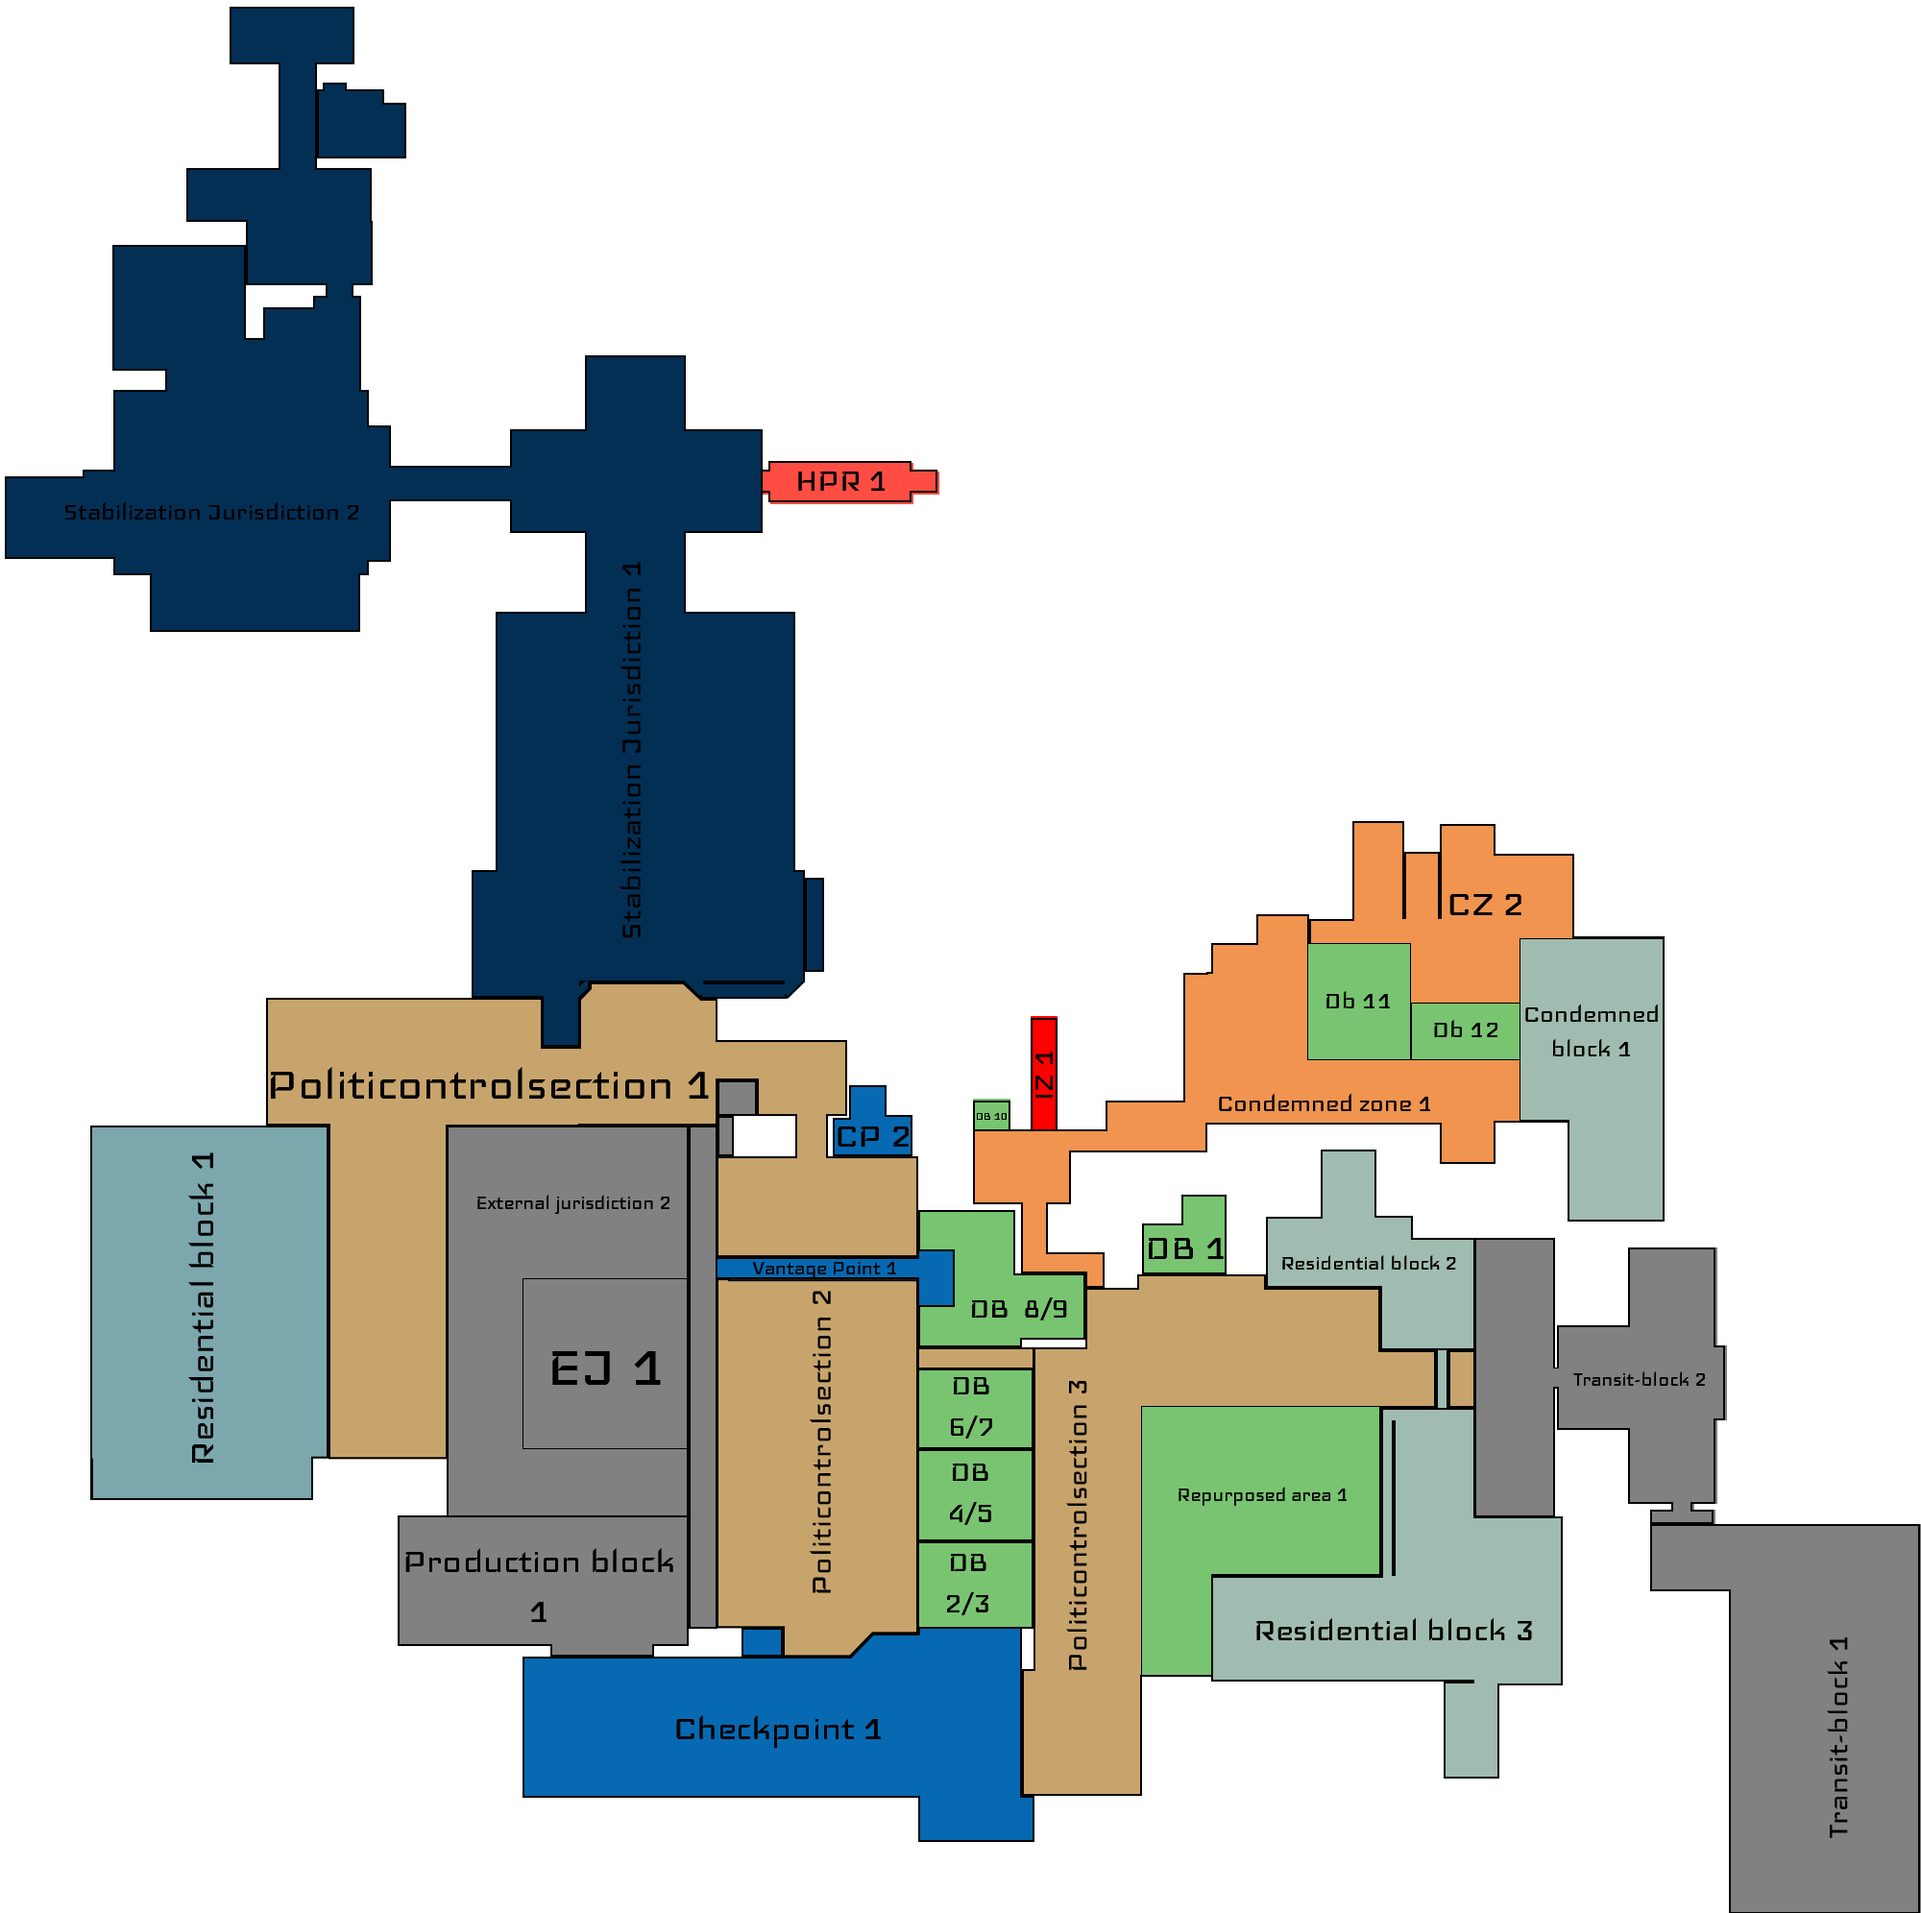
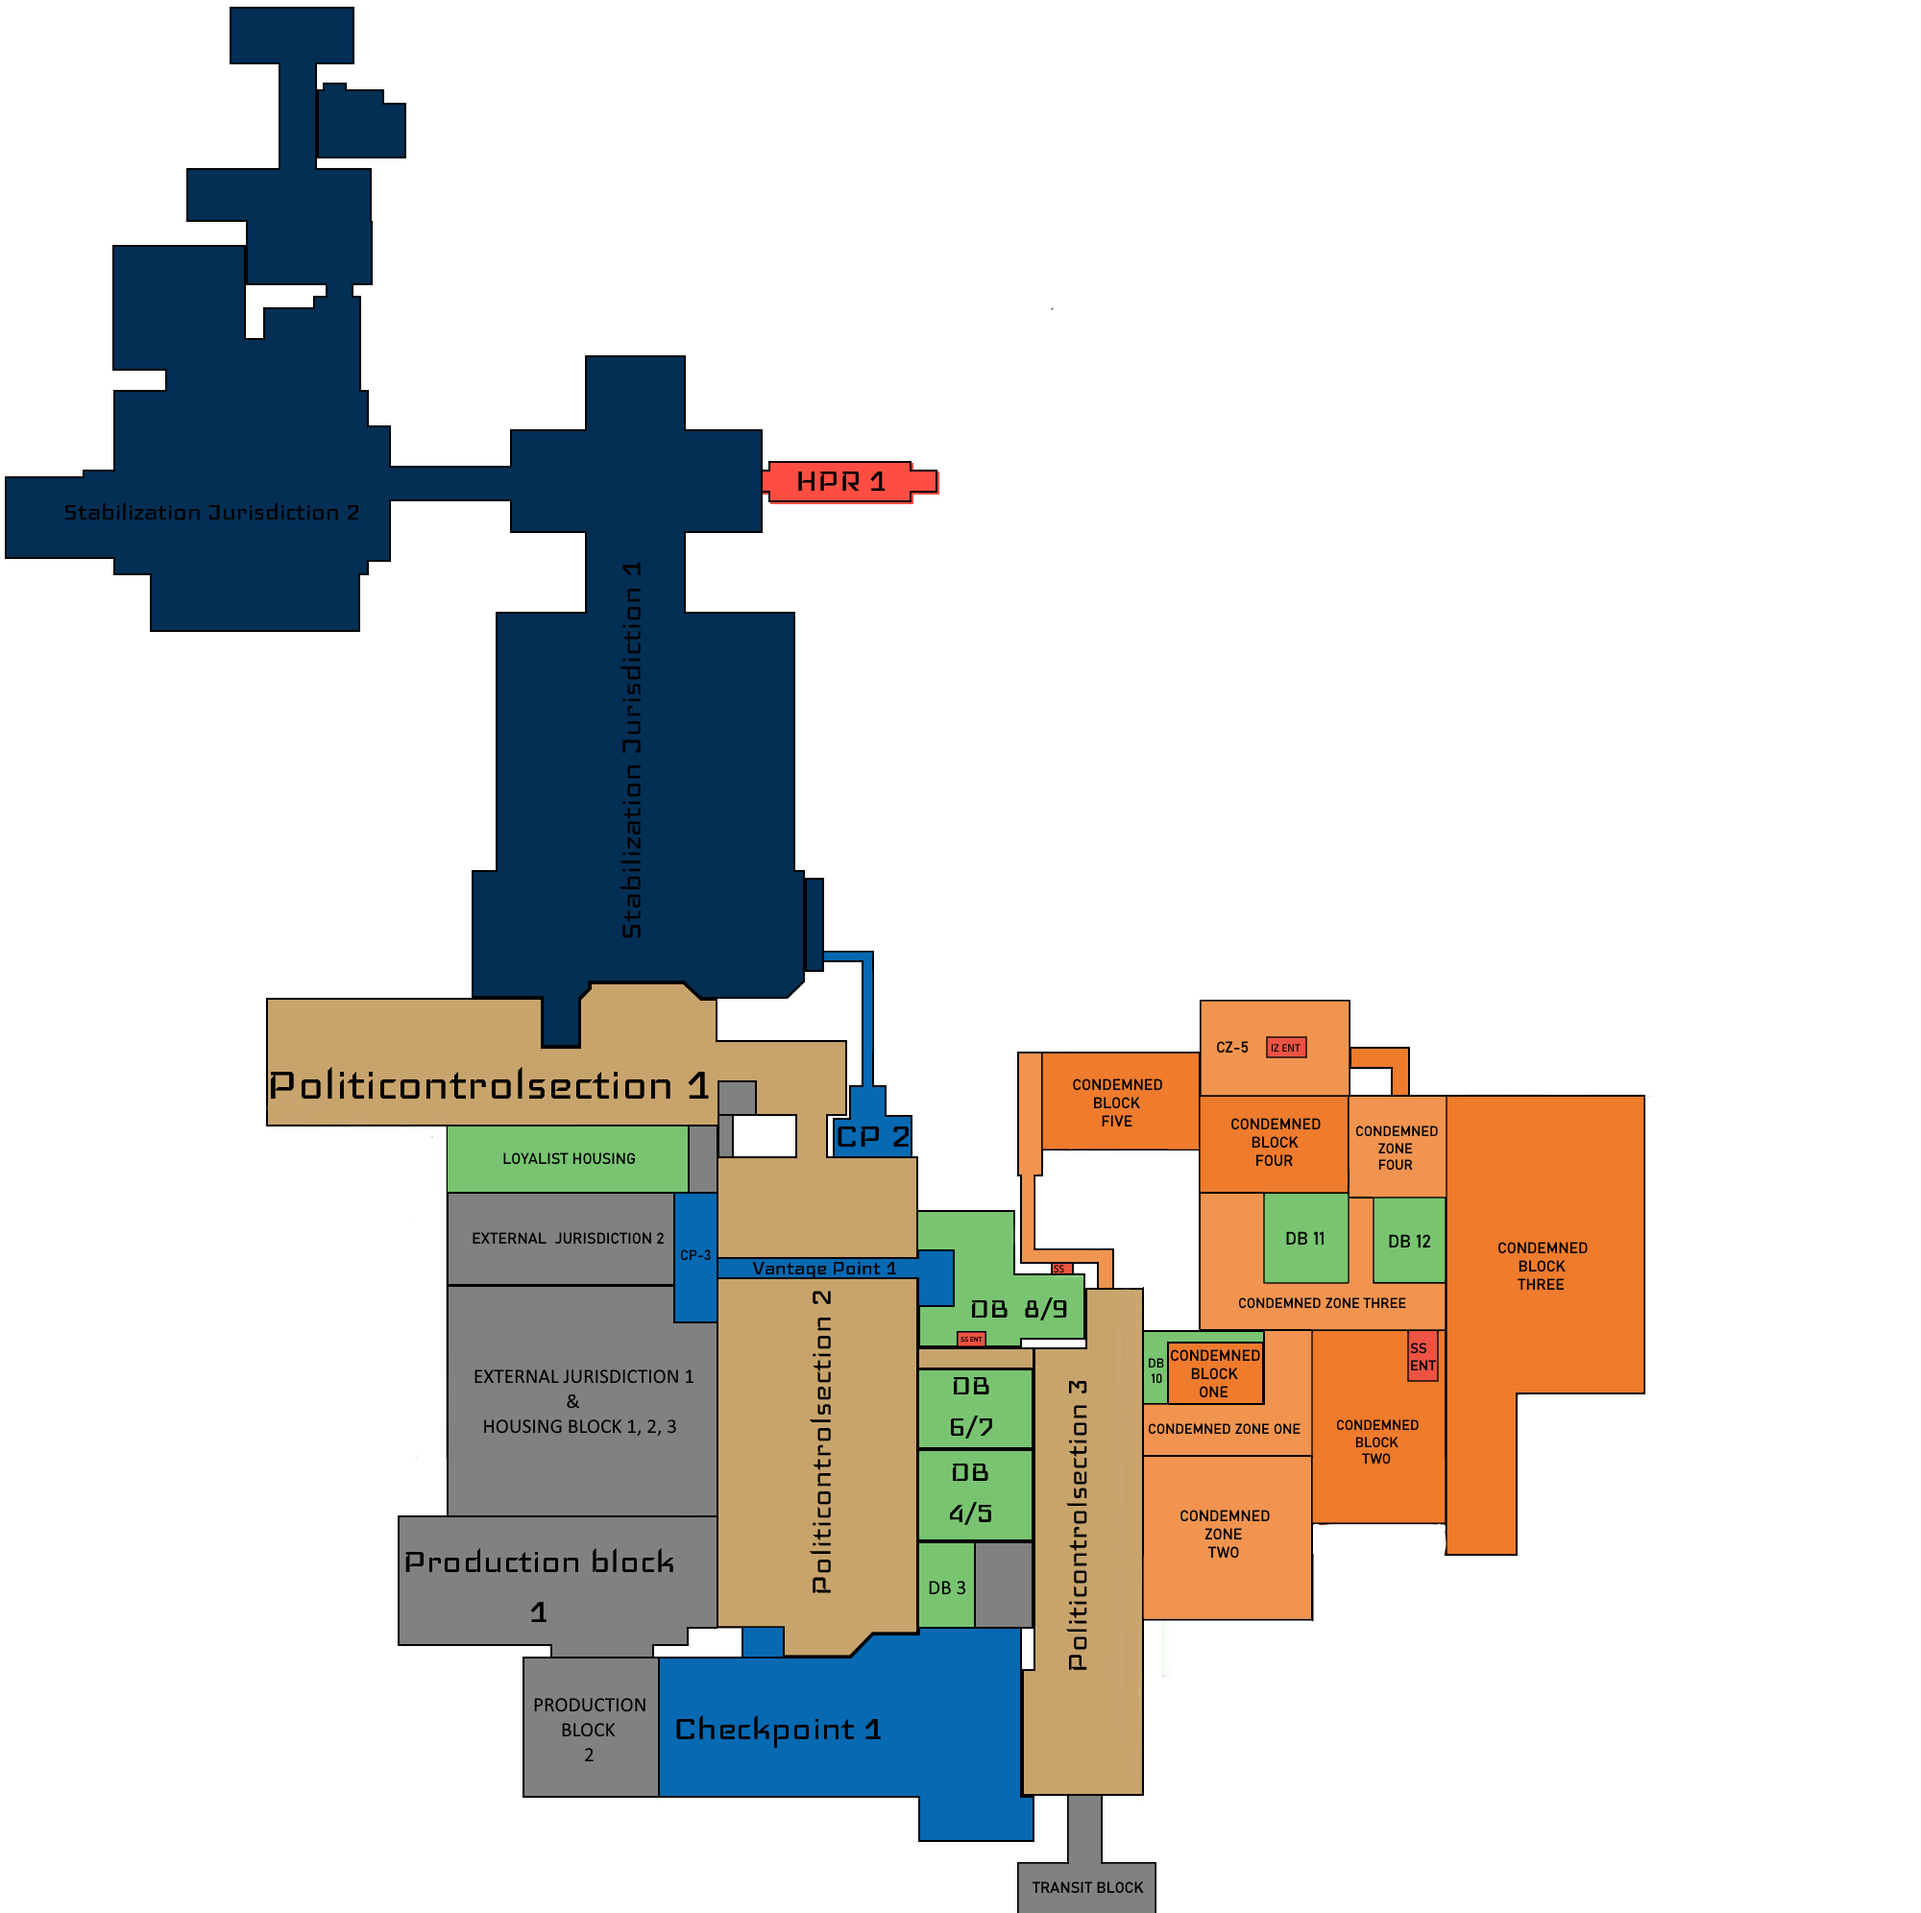
Removed sewer hotkey, updated charges.

diff --git a/ScreenTextWriter/HUDWindow.xaml b/ScreenTextWriter/HUDWindow.xaml
@@ -14,9 +14,9 @@
 
     <StackPanel Orientation="Vertical">
 
-        <Image Source="/Resources/C24_V3.png" Name="MapImg" Margin="0,80,0,0" Width="800" Height="800" HorizontalAlignment="Center" VerticalAlignment="Center"/>
-        <Image Source="/Resources/C24_V3_Sewers.png" Name="SewersImg" Margin="0,80,0,0" Width="800" Height="800" HorizontalAlignment="Center" VerticalAlignment="Center"/>
-        <Image Source="/Resources/charges.png" Name="ChargesImg" Margin="0,0,0,0" Width="700" Height="1000" HorizontalAlignment="Center" VerticalAlignment="Center"/>
+        <Image Source="/Resources/C24_V3.png" Name="MapImg" Margin="0,20,0,0" Width="800" Height="800" HorizontalAlignment="Center" VerticalAlignment="Top"/>
+        <!--Image Source="/Resources/C24_V3_Sewers.png" Name="SewersImg" Margin="0,80,0,0" Width="800" Height="800" HorizontalAlignment="Center" VerticalAlignment="Center"/-->
+        <Image Source="/Resources/charges.png" Name="ChargesImg" Margin="0,20,0,0" Width="700" Height="1000" HorizontalAlignment="Center" VerticalAlignment="Top"/>
         
         <WrapPanel Name="RadioTxt" Margin="0,20,10,0" HorizontalAlignment="Right" VerticalAlignment="Top">
             <StackPanel>

diff --git a/ScreenTextWriter/HUDWindow.xaml.cs b/ScreenTextWriter/HUDWindow.xaml.cs
@@ -39,7 +39,7 @@ namespace ScreenTextWriter
             AbbreviationsTxt.Visibility = Visibility.Collapsed;
 
             MapImg.Visibility = Visibility.Collapsed;
-            SewersImg.Visibility = Visibility.Collapsed;
+            //SewersImg.Visibility = Visibility.Collapsed;
             ChargesImg.Visibility = Visibility.Collapsed;
         }
         protected override void OnClosed(EventArgs e)
@@ -51,7 +51,7 @@ namespace ScreenTextWriter
         }
 
 
-        // -- Low level global keybinding, let's us process keybinds even when the system is not focused on the form.
+        // -- Low level global keybinding, lets us process keybinds even when the system is not focused on the form.
         // -- Code bellow really should be in another file but I am too lazy to do it. (the tool is finalized in one file anyways)
 
         [DllImport("user32.dll")]
@@ -89,10 +89,11 @@ namespace ScreenTextWriter
             RegisterHotKey(_windowHandle, HOTKEY_ID_1, MOD_NONE, VK_F2); // F2
             RegisterHotKey(_windowHandle, HOTKEY_ID_1, MOD_NONE, VK_F3); // F3
             RegisterHotKey(_windowHandle, HOTKEY_ID_1, MOD_NONE, VK_F4); // F4
-            RegisterHotKey(_windowHandle, HOTKEY_ID_1, MOD_SHIFT, VK_M); // M
-            RegisterHotKey(_windowHandle, HOTKEY_ID_1, MOD_SHIFT, VK_N); // N
+            //RegisterHotKey(_windowHandle, HOTKEY_ID_1, MOD_SHIFT, VK_M); // M
+            //RegisterHotKey(_windowHandle, HOTKEY_ID_1, MOD_SHIFT, VK_N); // N
 
             RegisterHotKey(_windowHandle, HOTKEY_ID_2, MOD_SHIFT, VK_F2); // Shift + F2
+            RegisterHotKey(_windowHandle, HOTKEY_ID_2, MOD_SHIFT, VK_F3); // Shift + F3
         }
 
         private IntPtr HwndHook(IntPtr hwnd, int msg, IntPtr wParam, IntPtr lParam, ref bool handled)
@@ -117,12 +118,12 @@ namespace ScreenTextWriter
                                 case (int)VK_F4:
                                     AbbreviationsTxt.Visibility = Visibility.Visible;
                                     break;
-                                case(int)VK_M:
-                                    MapImg.Visibility = Visibility.Visible;
-                                    break;
-                                case (int)VK_N:
-                                    SewersImg.Visibility = Visibility.Visible;
-                                    break;
+                                //case(int)VK_M:
+                                //    MapImg.Visibility = Visibility.Visible;
+                                //    break;
+                                //case (int)VK_N:
+                                //    SewersImg.Visibility = Visibility.Visible;
+                                //    break;
                             }
                             break;
 
@@ -131,6 +132,10 @@ namespace ScreenTextWriter
                             if (vkey == (int)VK_F2)
                             {
                                 ChargesImg.Visibility = Visibility.Visible;
+                            } 
+                            else if (vkey == (int)VK_F3)
+                            {
+                                MapImg.Visibility = Visibility.Visible;
                             }
                             handled = true;
                             break;
